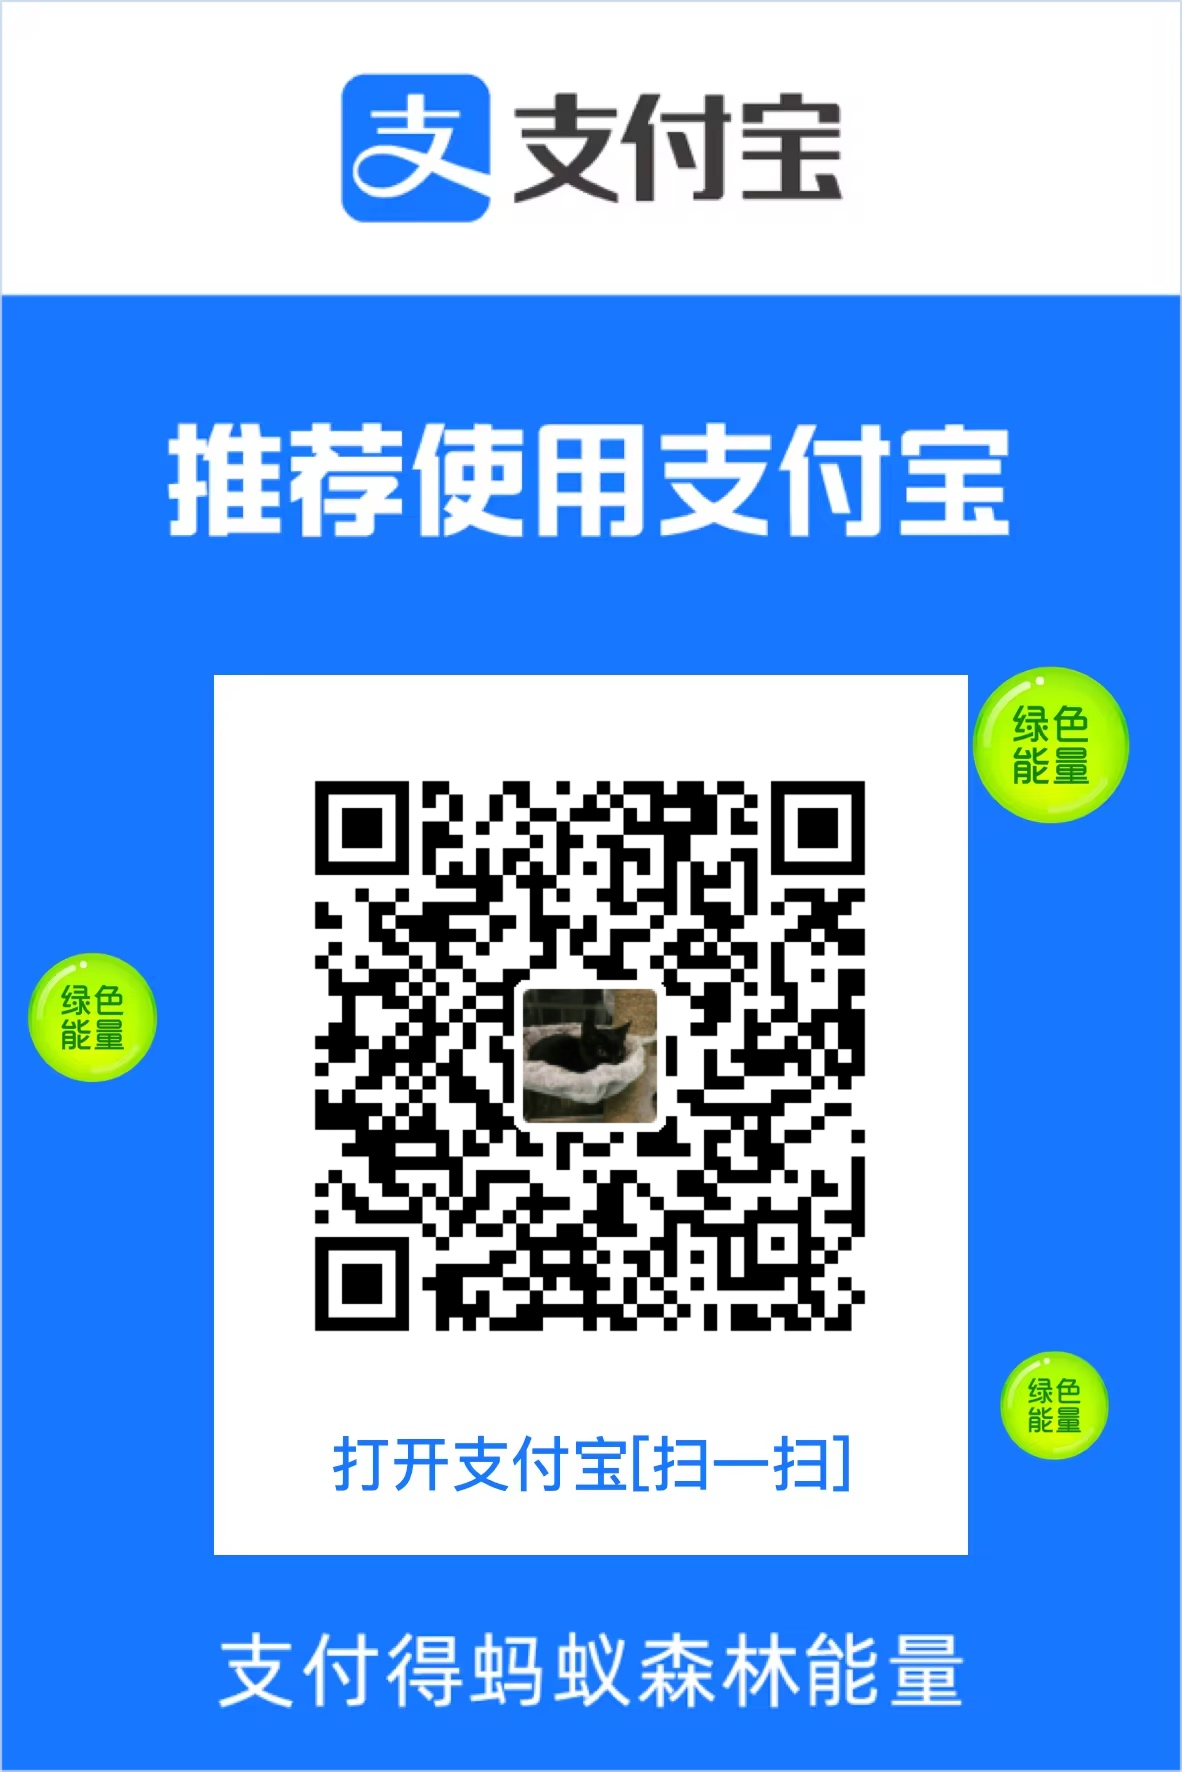
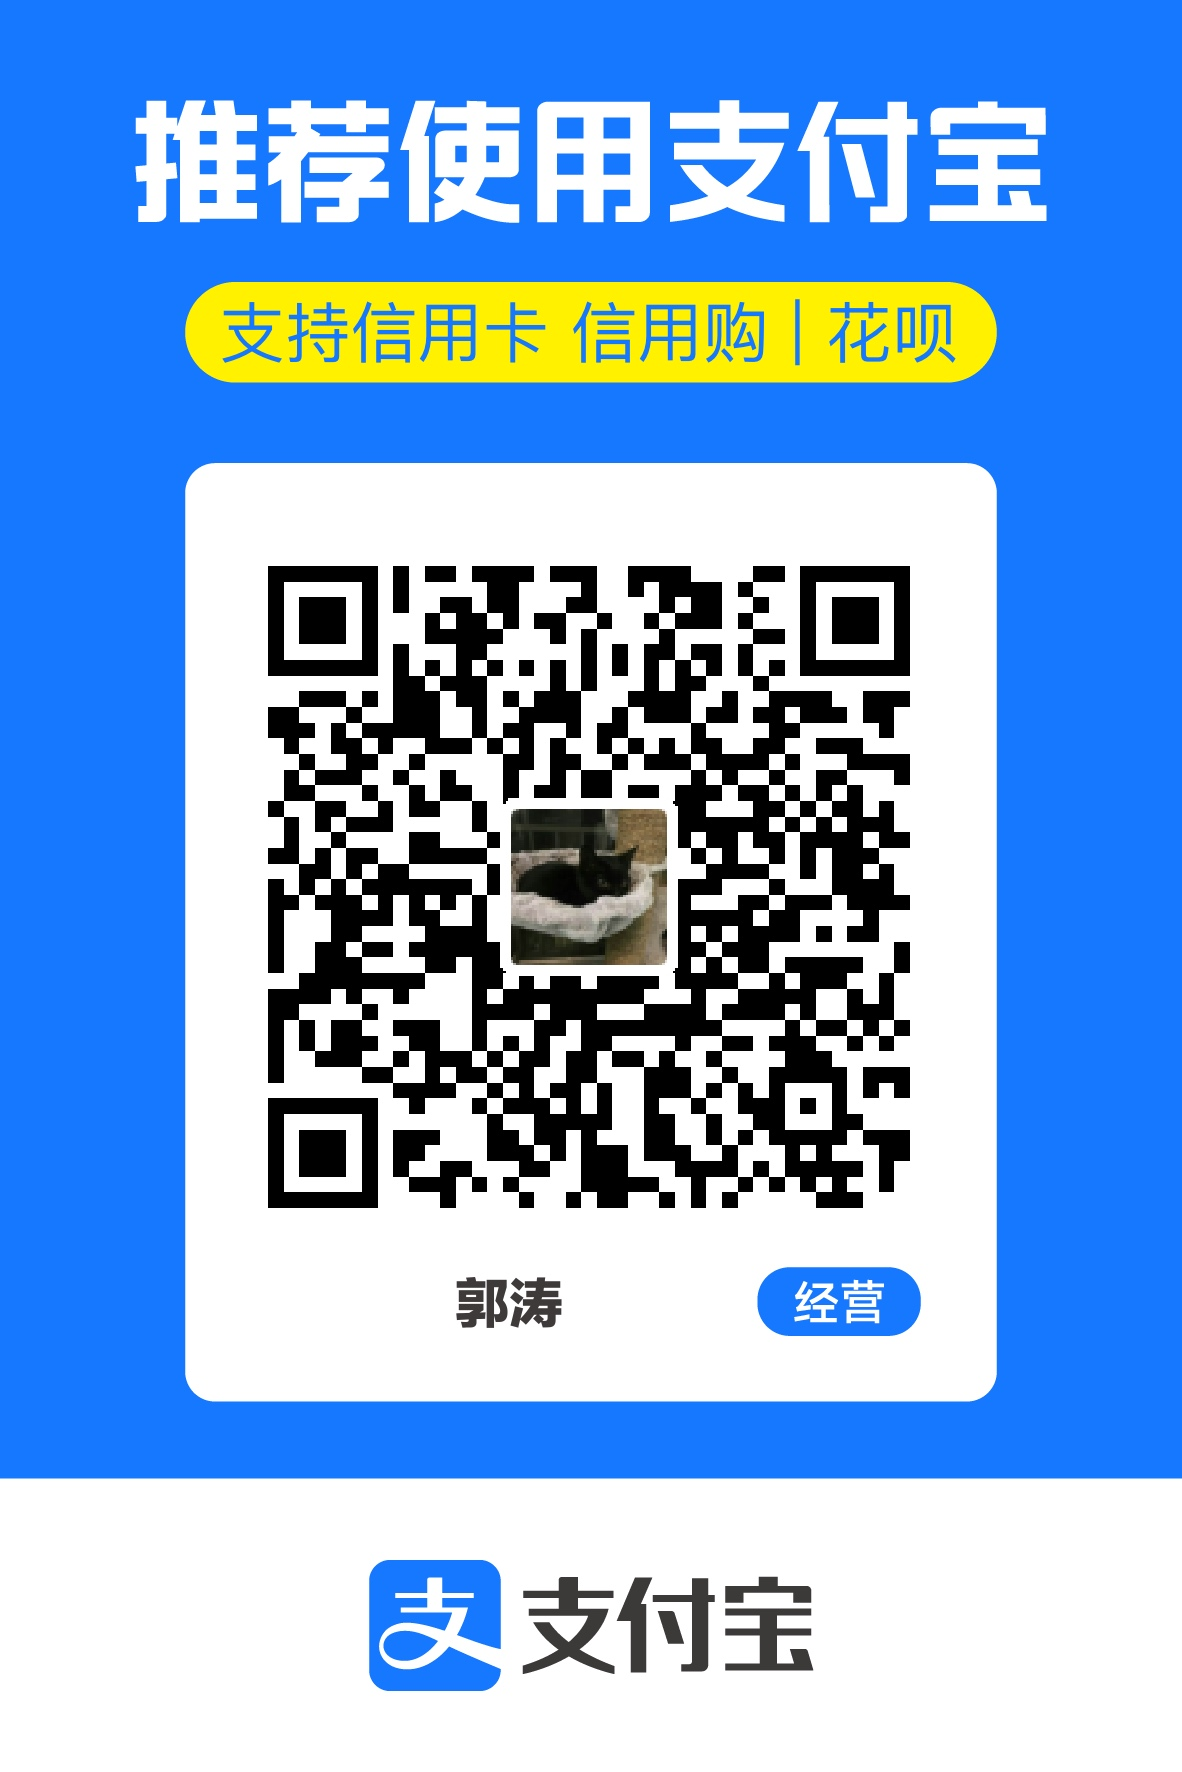
feat: 上传支付宝商户收款码图片到对象存储
- 将支付宝商户收款码图片上传到对象存储
- 更新配置为直接显示收款码原图（而非通过第三方生成）
- 支付宝和微信收款码现在都使用对象存储URL"

diff --git a/server/src/routes/payment.ts b/server/src/routes/payment.ts
@@ -31,7 +31,7 @@ const PAYMENT_ACCOUNTS = {
   alipay: {
     name: '支付宝收款',
     account: '18321337942', // 支付宝账号（手机号）
-    qrcodeUrl: 'https://qr.alipay.com/fkx14741z0gq0f9v0g3n62d', // 支付宝收款码
+    qrcodeUrl: 'https://coze-coding-project.tos.coze.site/coze_storage_7618582774739501102/payment/alipay-qrcode_fea69237.png?sign=1805436367-d91c235771-0-f4f506bd6dc6a7dd8461776b01138ce542579dcc6cc82f22fb7c7eb04089e51c', // 支付宝商户收款码图片
     realName: 'G Open官方', // 收款人姓名
     desc: '请使用支付宝扫码支付',
   },
